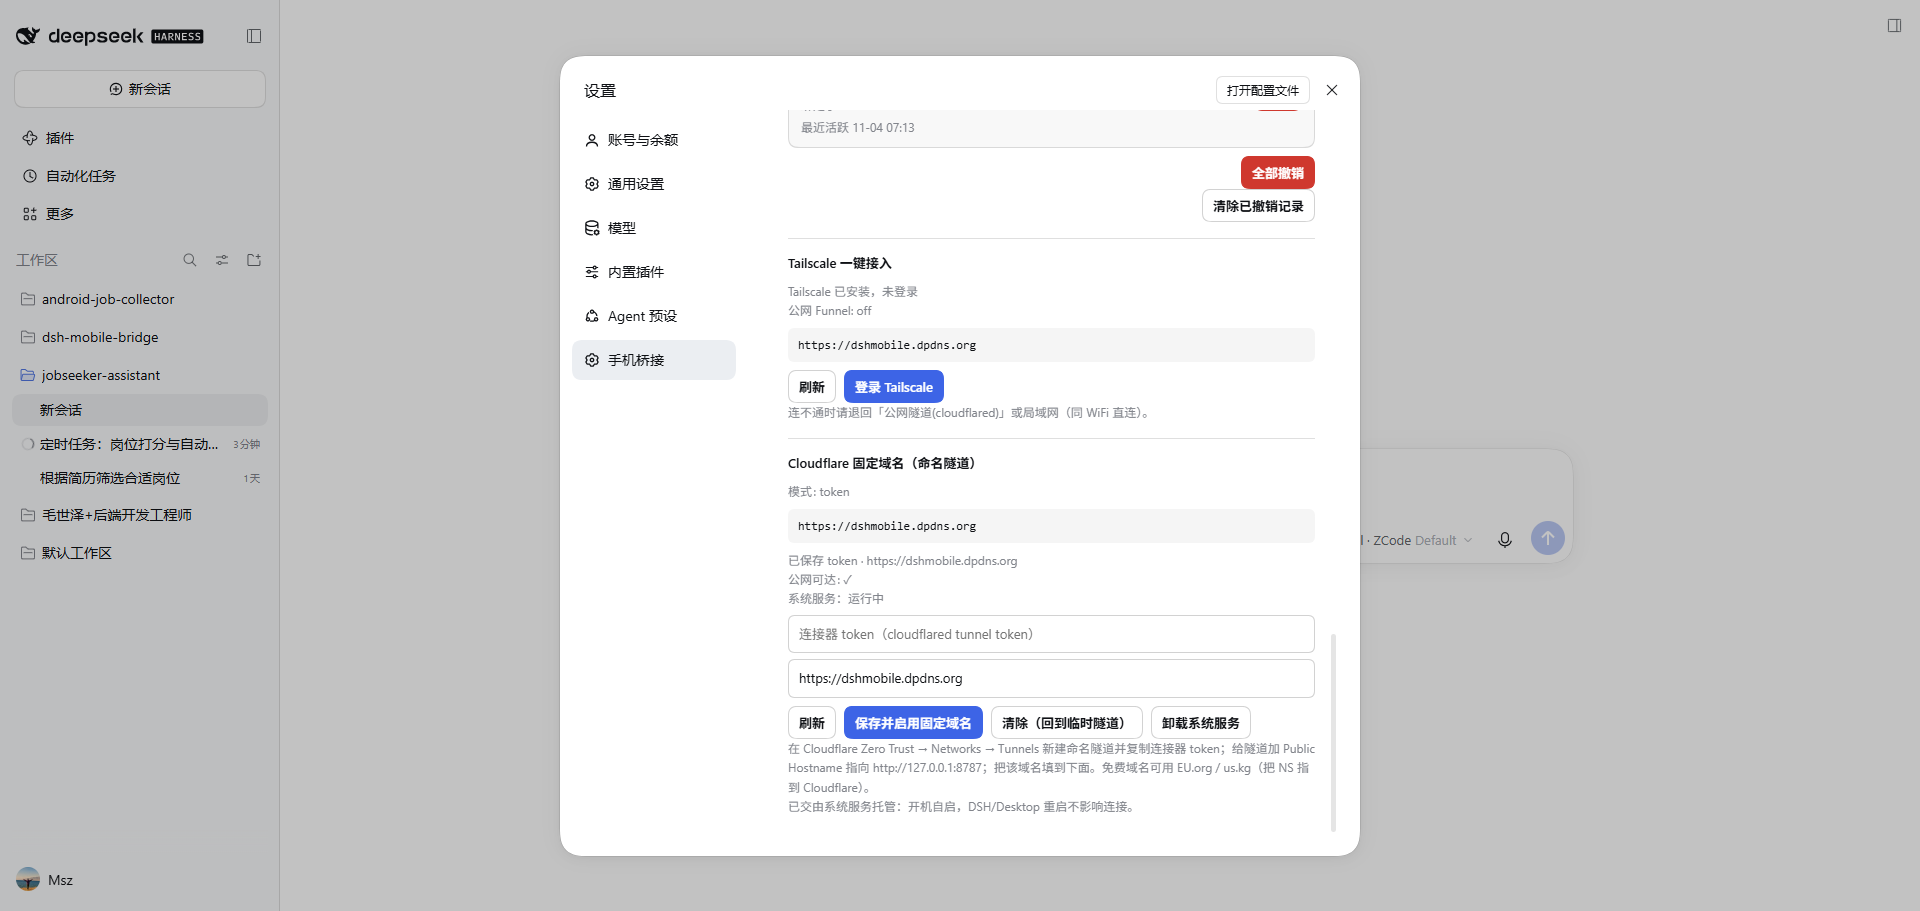
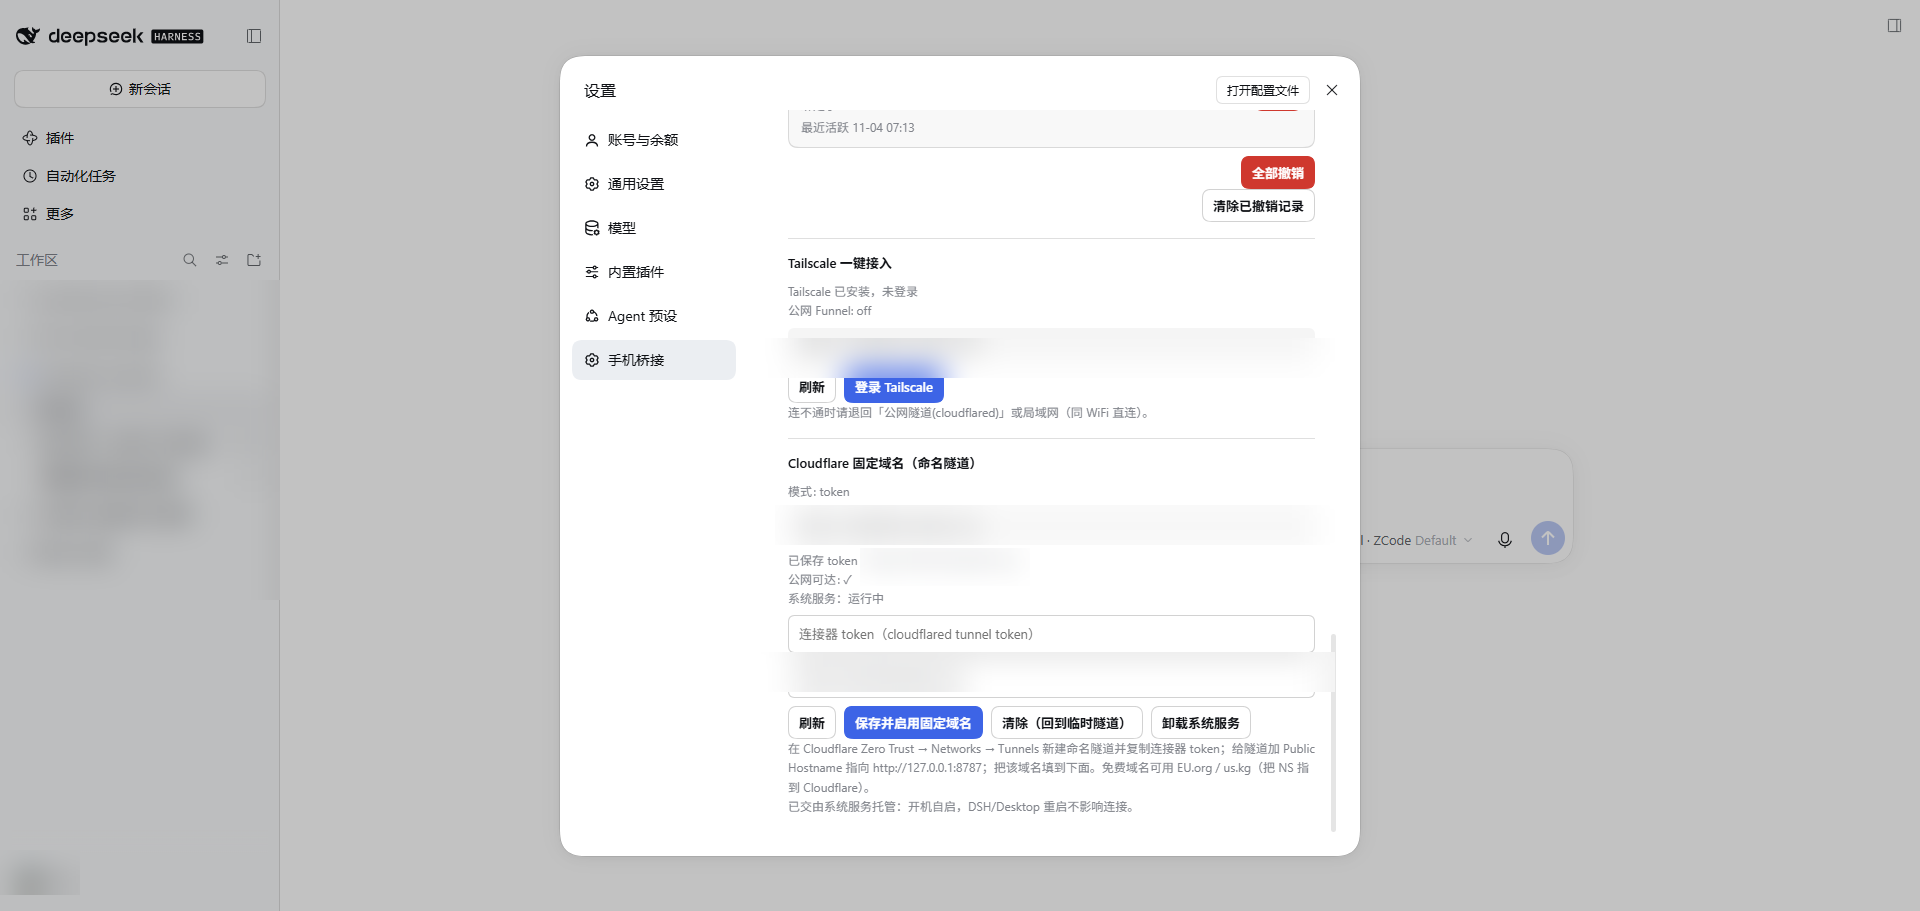
chore: redact personal info in docs, tests and screenshots
- replace personal domain / LAN IP / Tailscale host+IP / Windows user path with placeholders
- blur QR codes, domains, session list (real name) and account nickname in docs/screenshots
- ignore local private artifacts (.tmp/, baseline*/, codex-tmp/, device-shots/, shots/, e2e/shots/ and PII-bearing local docs/scripts)

diff --git a/TEST-REPORT-4-REGRESSION.md b/TEST-REPORT-4-REGRESSION.md
@@ -1,6 +1,6 @@
 # 回归测试报告 — dsh-mobile-bridge v0.5.0（2026-11-05）
 
-> 对应方案：[REGRESSION-PLAN-4.md](REGRESSION-PLAN-4.md)。环境：DSH Desktop（宿主 webServer :50491）+ edge :8787 + token 隧道 dshmobile.dpdns.org；Playwright 360×740 触屏（经 edge）与 1440×900（经 edge）。
+> 对应方案：[REGRESSION-PLAN-4.md](REGRESSION-PLAN-4.md)。环境：DSH Desktop（宿主 webServer :50491）+ edge :8787 + token 隧道 dsh.example.com；Playwright 360×740 触屏（经 edge）与 1440×900（经 edge）。
 > 本轮共修复 1 个新发现缺陷（DMB-019，当场修复并回归），另有 2 项判定为「宿主新布局下的预期行为变化」、2 项 S4 卫生项。
 
 ## 一、结果总览
@@ -28,7 +28,7 @@
 | 体验 | UX-02 触屏按压反馈 | ✅ PASS | 真实按压 toggle → brightness(0.86)（脚本初版用 dispatchEvent 不触发 :active，属测试方法问题） |
 | 体验 | UX-03 提问卡片窄屏铺满 | ✅ PASS | wnLwla CSS 注入存在，模拟 frame 宽 360 |
 | 体验 | UX-04 PWA 元数据 | ✅ PASS | viewport/theme-color ×2(带 media)/manifest/apple-touch-icon 全部在位（初测误报为检查时机过早） |
-| 稳定 | STB-01 固定域名可达 | ✅ PASS | https://dshmobile.dpdns.org → 401(需鉴权，隧道连通) |
+| 稳定 | STB-01 固定域名可达 | ✅ PASS | https://dsh.example.com → 401(需鉴权，隧道连通) |
 | 稳定 | STB-02 桌面 1440 无副作用 | ⚠ S4 | 无窄屏补丁生效（正确）、无 scrim/hint、0 pageerror；但桌面下 `data-dmb-overlay` 属性残留在侧栏根（无视觉影响，CSS 全部 gated by `data-dmb-narrow`）。卫生项，建议 installSidebarState 在非窄屏时清理属性 |
 | 稳定 | STB-03 门禁（check + test） | ✅ PASS | 全绿 |
 

diff --git a/REGRESSION-PLAN-4.md b/REGRESSION-PLAN-4.md
@@ -1,7 +1,7 @@
 # 回归测试方案 — dsh-mobile-bridge v0.5.0（2026-11-05）
 
 > 触发：DSH 桌面端升级导致移动 Web 端连续两轮 S1（DMB-017/018）。本轮以「宿主 UI 新版本（drawer 布局）」为基线做全功能回归。
-> 环境：DSH Desktop 宿主 webServer 127.0.0.1:50491；edge 127.0.0.1:8787（LAN 192.168.0.110:8787）；publicBase https://dshmobile.dpdns.org（token 隧道，serviceManaged）；设备 5/5，在线 2。
+> 环境：DSH Desktop 宿主 webServer 127.0.0.1:50491；edge 127.0.0.1:8787（LAN <本机LAN IP>:8787）；publicBase https://dsh.example.com（token 隧道，serviceManaged）；设备 5/5，在线 2。
 > 工具：Playwright（系统 Chrome）360×740 触屏上下文（isMobile/hasTouch）经 edge 访问；配对 cookie 复用 baseline3/.device.json（edge 配对限速 20/min）。
 
 ## 一、被测功能面 → Case 映射
@@ -30,7 +30,7 @@
 | 体验 | UX-02 | 触屏按压反馈（:active brightness） | P2 | computed style 差分 |
 | 体验 | UX-03 | 提问卡片窄屏铺满（wnLwla 修复回归） | P1 | 注入卡片后宽度断言 |
 | 体验 | UX-04 | PWA 元数据（viewport/theme-color media/manifest） | P2 | index-inject 静态断言 |
-| 稳定 | STB-01 | 隧道固定域名可达（publicBase 200/302） | P0 | HTTPS GET dshmobile.dpdns.org |
+| 稳定 | STB-01 | 隧道固定域名可达（publicBase 200/302） | P0 | HTTPS GET <固定域名> |
 | 稳定 | STB-02 | 桌面（1440）无副作用：无浮层残留/无 pageerror | P0 | 1440×900 上下文走查 |
 | 稳定 | STB-03 | 单测/语法门禁 | P0 | npm run check + npm test |
 

diff --git a/HANDOFF.md b/HANDOFF.md
@@ -1,8 +1,8 @@
 # Handoff — dsh-mobile-bridge 会话接管
 
 > 更新时间：2026-11-01 13:15 CST
-> 接管自 ZCode 会话 `sess_8e01ea64-580c-4d08-a918-799a336fc3a1`（ZCode GLM-5.3-Flash）
-> 工作目录：`C:\Users\Administrator\Documents\deepseek-harness\default-workspace\dsh-mobile-bridge`
+> 接管自 ZCode 会话（ZCode GLM-5.3-Flash）
+> 工作目录：本仓库根目录（dsh-mobile-bridge）
 > 仓库：https://github.com/msz-legend/dsh-mobile-bridge (main @ `d381990`，已推送)
 
 ## 1. 项目一句话
@@ -17,10 +17,10 @@ DSH Mobile Bridge：让手机浏览器在「不重建前端」的前提下接入
 | git HEAD | `9745e7a` fix: detect narrow by screen.width（= origin/main） |
 | 工作树 | 干净 |
 | 测试 | `npm test` → 13 + 4 + 4 checks 全绿 |
-| edge | 监听 127.0.0.1:8787 + 192.168.0.108:8787 |
+| edge | 监听 127.0.0.1:8787 + <本机LAN IP>:8787 |
 | 宿主 webServer | 127.0.0.1:50438 |
 | cloudflared | quick tunnel running（地址随重启变化） |
-| 激活设备 | 1（真机 KKG-AN00 已配对） |
+| 激活设备 | 1（真机 Android 已配对） |
 
 ## 3. 已完成的工作（按提交）
 
@@ -95,7 +95,7 @@ DSH Mobile Bridge：让手机浏览器在「不重建前端」的前提下接入
 ## 7. 快速命令
 
 ```sh
-cd C:\Users\Administrator\Documents\deepseek-harness\default-workspace\dsh-mobile-bridge
+cd <本仓库路径>
 npm run check && npm test
 git status --porcelain && git log --oneline -3
 # 取当前配对码 / 公网地址

diff --git a/docs/REGRESSION-CASES.md b/docs/REGRESSION-CASES.md
@@ -15,7 +15,7 @@
    - 失效症状：页面 302 → `/pair`、插件样式/脚本全部缺失；
    - 重配：从宿主端口 `GET /pairing.json` 取码 → `POST /pair`（**打宿主端口，不打 edge**——edge 对配对限速 20/min，超限封 10min）→ 立即把 Set-Cookie 存回 `.device.json`；
    - 设备名额满（5/5）：`POST /devices/revoke {deviceId}`（宿主端口，loopback）撤销废弃测试设备。
-3. **Playwright**：本机无 npm 安装，`await import('file:///D:/Hermes/hermes-agent/node_modules/playwright/index.mjs')` + 系统 Chrome `C:/Program Files/Google/Chrome/Application/chrome.exe`；移动上下文 360×740、`isMobile:true, hasTouch:true`、Android UA；cookie 注入 domain=127.0.0.1。
+3. **Playwright**：本机无 npm 安装，`await import('file:///<playwright安装目录>/node_modules/playwright/index.mjs')` + 系统 Chrome `C:/Program Files/Google/Chrome/Application/chrome.exe`；移动上下文 360×740、`isMobile:true, hasTouch:true`、Android UA；cookie 注入 domain=127.0.0.1。
 
 ## 1. Case 总表（26 条）
 
